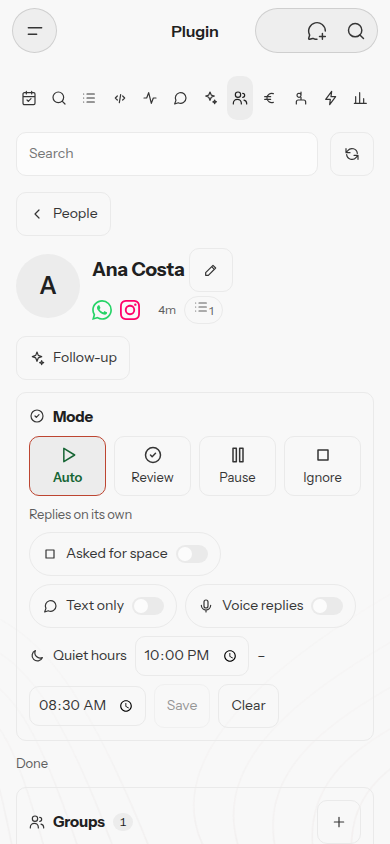
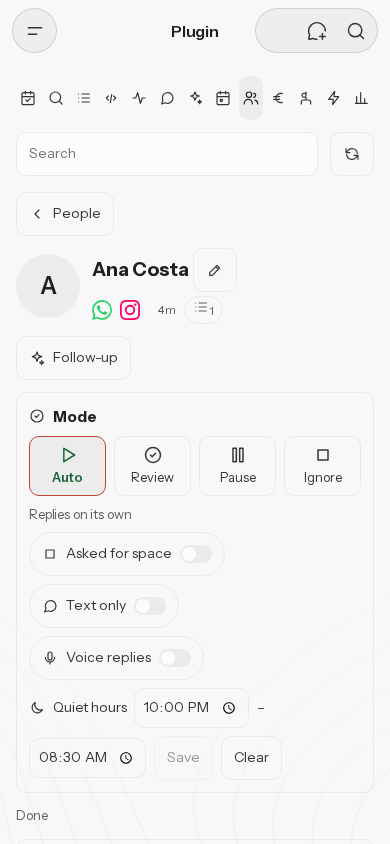
fix(nsvx): wrap Control tabs so all fit at 1280
With Agenda and People both added there are 14 tabs, and at 1280 the last four
(Money, Team, Actions, Progress) overflowed the 960px page. The tab row now wraps
on desktop and stays one icon row on phones. Refreshed Agenda and People shots.

diff --git a/extensions/nsvx/src/control-ui.css b/extensions/nsvx/src/control-ui.css
@@ -13,9 +13,15 @@
   margin-bottom: var(--space-4);
 }
 
+/* Wraps on desktop so every tab stays visible; phones show one icon row. */
 .nsvx__tabs {
   display: flex;
+  flex-wrap: wrap;
   gap: var(--space-1);
+}
+
+.nsvx__tab {
+  white-space: nowrap;
 }
 
 .nsvx__tab,
@@ -694,6 +700,7 @@
   }
 
   .nsvx__tabs {
+    flex-wrap: nowrap;
     width: 100%;
   }
 
